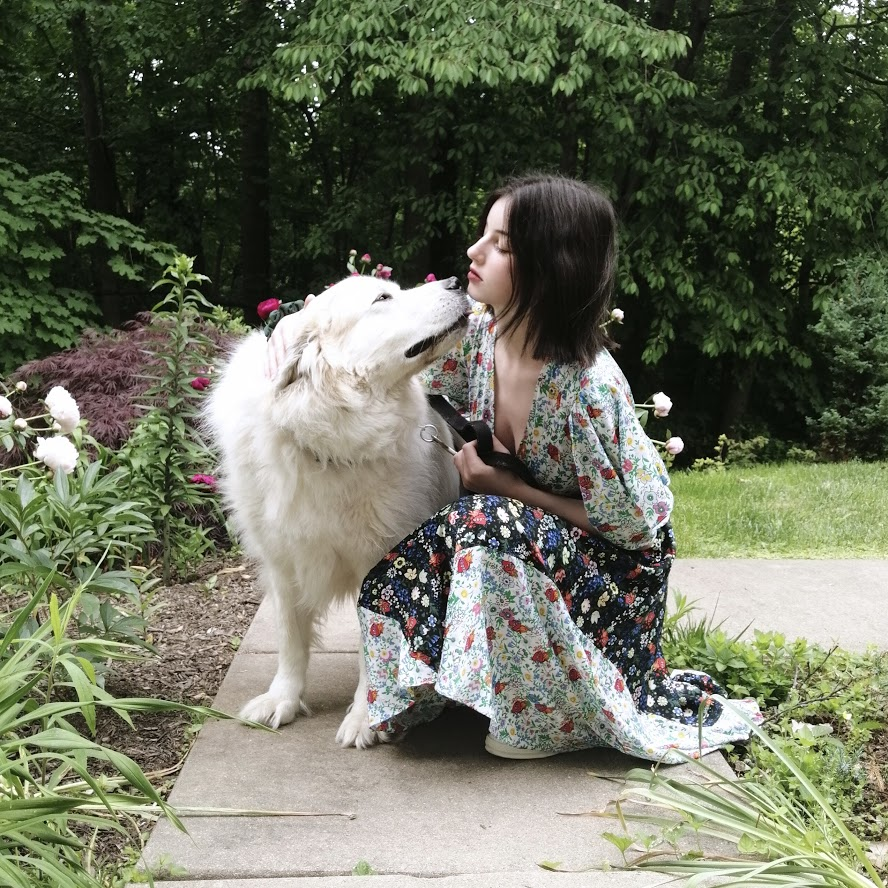
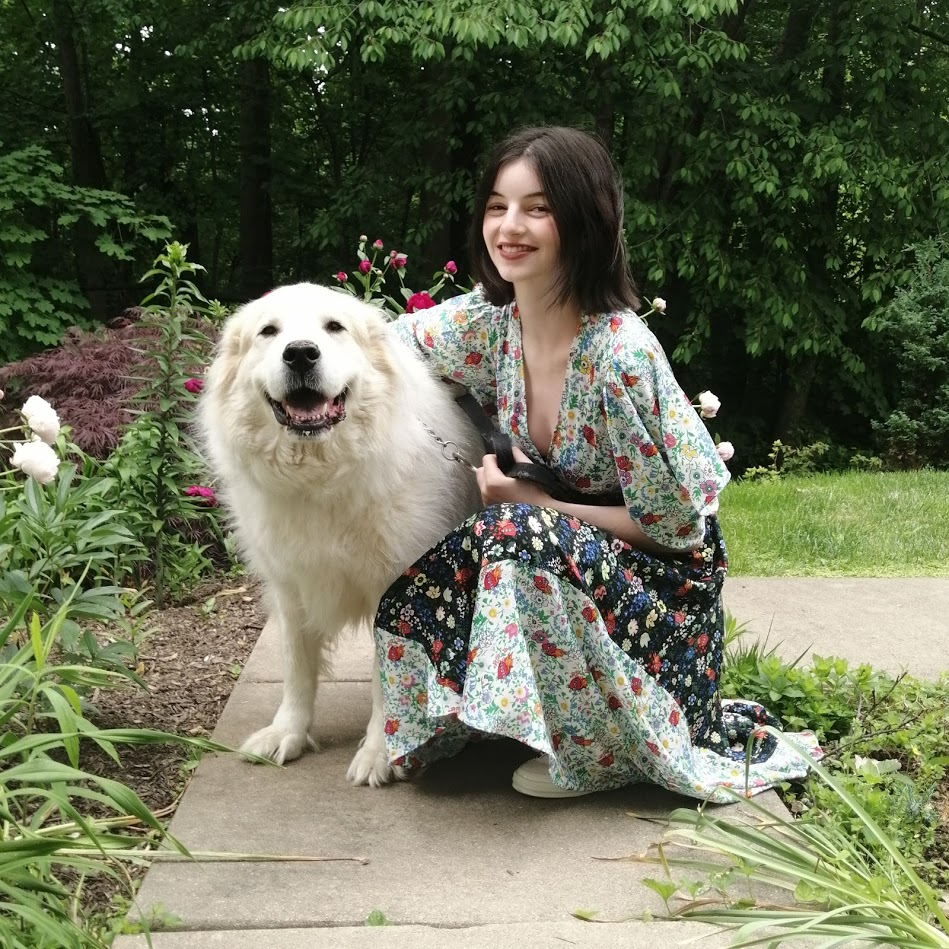
extra files

diff --git a/webapp/templates/index.html b/webapp/templates/index.html
@@ -34,8 +34,7 @@
             <div class="row">
               <div class="col-md-3">
                   <div class="bio-container profile">
-
-                    <img src="static/graceweb.jpg" alt="profilepic">
+                    <img src="static/meandbo.jpg" alt="profilepic">
 
                     <h2>I'm Grace!</h2>
                     <p>Currently studying Computer Science at Temple University. 
@@ -60,7 +59,7 @@
                                 <h3>looking for:</h3>
                                 <p class="about">A full time position beginning Summer or Fall 2021. I'm looking for any junior developer position, whether it's software or web apps.
                                     Front-end design is what I enjoy most, but I have experience with full-stack development, so I'm comfortable with writing a back-end or
-                                    managing a database. My favorite languages to write in are C and Python, but I have plenty of experience with Java and JavaScript as well.
+                                    managing a database. My favorite languages to write in are C and Python, and I have plenty of experience with Java and JavaScript as well.
                                 </p>
                             </div>
                             <div class="col-md-6">
@@ -68,7 +67,8 @@
                                 <p class="about">
                                     Teaching myself ReAct <br>
                                     Creating spritesheets for a friend's game <br>
-                                    Perfecting making spaghetti from scratch
+                                    Finishing my Minecraft megabuild
+                                    Contributing to an open source project
                                 </p>
                                 <h3>likes:</h3>
                                 <p class="about">Python, C, historical fiction, desserts, and Battlestar Galactica.</p>
